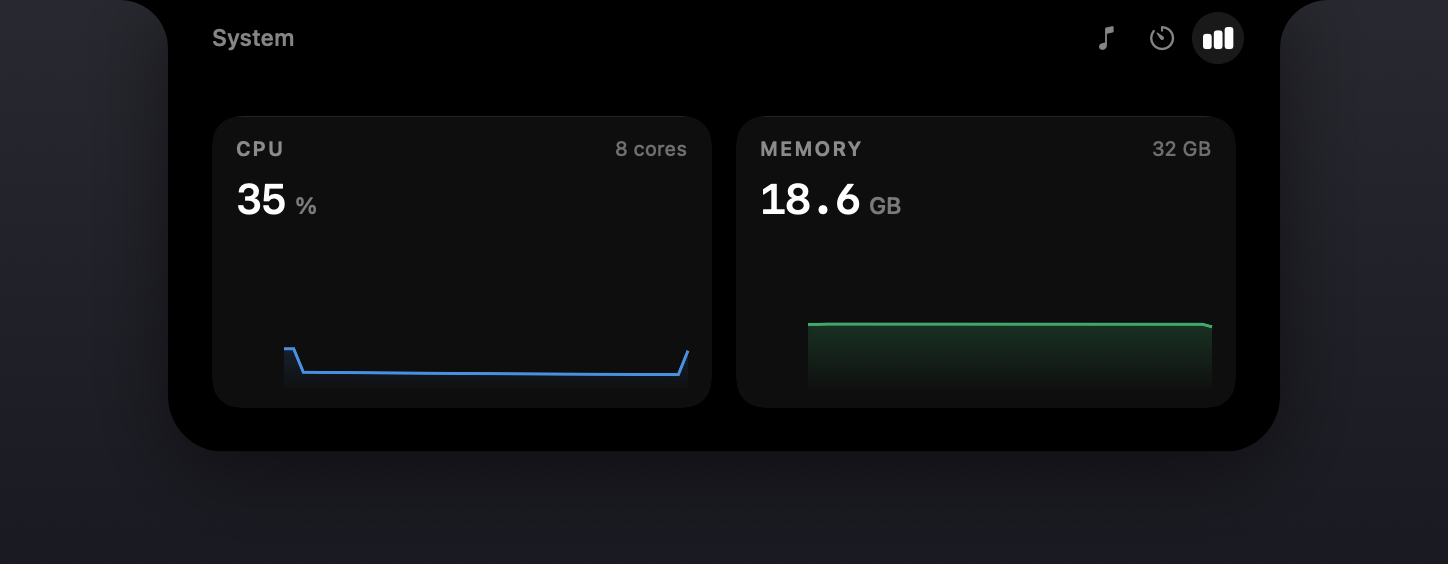
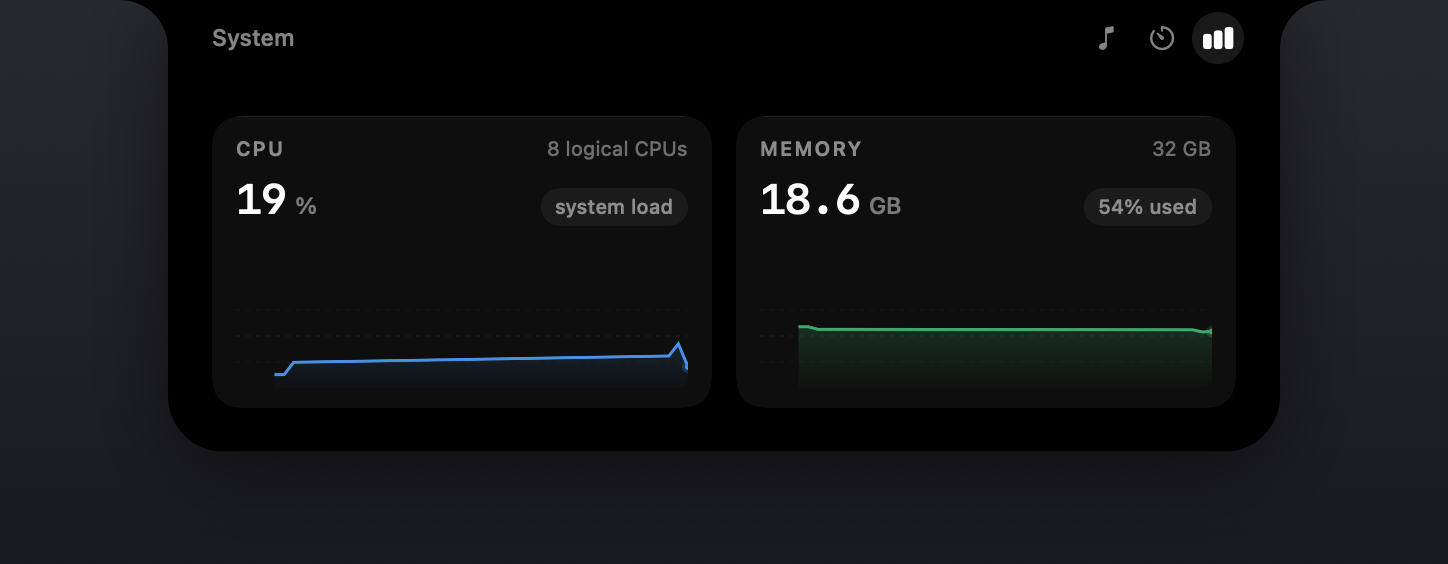
Polish system charts and warn at ten percent battery

diff --git a/Sources/CorniceApp/Views/StatsPane.swift b/Sources/CorniceApp/Views/StatsPane.swift
@@ -1,7 +1,7 @@
 import SwiftUI
 import CorniceKit
 
-/// The System module: two cards, one series each.
+/// The System module: two live cards, one exact series each.
 ///
 /// Deliberately charts rather than rows of numbers. A number alone answers "what
 /// is it now", which is the less useful question. The reason to glance at this
@@ -16,9 +16,10 @@ struct StatsPane: View {
         HStack(alignment: .top, spacing: Theme.Metrics.cardGap) {
             MetricCard(
                 name: "CPU",
-                sub: "\(ProcessInfo.processInfo.activeProcessorCount) cores",
+                sub: "\(ProcessInfo.processInfo.activeProcessorCount) logical CPUs",
                 value: String(Int((latest.cpuUsage * 100).rounded())),
                 unit: "%",
+                detail: "system load",
                 series: [Series(values: model.telemetry.series(\.cpuUsage), color: Theme.Palette.cpu)]
             )
 
@@ -27,6 +28,7 @@ struct StatsPane: View {
                 sub: Format.bytes(latest.memoryTotalBytes),
                 value: gigabytes(latest.memoryUsedBytes),
                 unit: "GB",
+                detail: "\(Int((latest.memoryUsage * 100).rounded()))% used",
                 series: [Series(values: model.telemetry.series(\.memoryUsage), color: Theme.Palette.memory)]
             )
 
@@ -58,6 +60,7 @@ struct MetricCard: View {
     let sub: String
     let value: String
     let unit: String
+    let detail: String
     let series: [Series]
     var legend: [Legend] = []
 
@@ -88,6 +91,13 @@ struct MetricCard: View {
                 Text(unit)
                     .font(Theme.Typeface.status)
                     .foregroundStyle(ink.at(0.45))
+                Spacer(minLength: 4)
+                Text(detail)
+                    .font(Theme.Typeface.cardSub.weight(.medium))
+                    .foregroundStyle(ink.at(0.50))
+                    .padding(.horizontal, 7)
+                    .padding(.vertical, 3)
+                    .background(ink.at(0.055), in: Capsule())
             }
             .monospacedDigit()
             .padding(.top, 6)
@@ -96,6 +106,7 @@ struct MetricCard: View {
 
             Sparkline(series: series)
                 .frame(height: 52)
+                .clipShape(RoundedRectangle(cornerRadius: 5, style: .continuous))
 
             if !legend.isEmpty {
                 HStack(spacing: 10) {
@@ -145,6 +156,7 @@ struct Sparkline: View {
 
     var body: some View {
         Canvas { context, size in
+            drawGuides(in: &context, size: size)
             for entry in series {
                 draw(entry, in: &context, size: size)
             }
@@ -153,9 +165,23 @@ struct Sparkline: View {
         .accessibilityHidden(true)
     }
 
+    private func drawGuides(in context: inout GraphicsContext, size: CGSize) {
+        for fraction in [0.25, 0.5, 0.75] {
+            let y = size.height * fraction
+            var guide = Path()
+            guide.move(to: CGPoint(x: 0, y: y))
+            guide.addLine(to: CGPoint(x: size.width, y: y))
+            context.stroke(
+                guide,
+                with: .color(Color.primary.opacity(fraction == 0.5 ? 0.08 : 0.045)),
+                style: StrokeStyle(lineWidth: 0.5, dash: [2, 3])
+            )
+        }
+    }
+
     private func draw(_ entry: Series, in context: inout GraphicsContext, size: CGSize) {
-        let values = entry.values
-        guard values.count >= 2 else { return }
+        let values = entry.values.map { $0.isFinite ? $0.clamped(to: 0...1) : 0 }
+        guard !values.isEmpty else { return }
 
         let step = size.width / CGFloat(max(capacity - 1, 1))
         // Right-aligned, so the newest sample is always against the right edge
@@ -163,7 +189,7 @@ struct Sparkline: View {
         let offset = size.width - step * CGFloat(values.count - 1)
 
         func point(_ index: Int) -> CGPoint {
-            let value = values[index].clamped(to: 0...1)
+            let value = values[index]
             return CGPoint(
                 x: offset + step * CGFloat(index),
                 // Inset by a point so a value pinned at 0 or 1 still shows a
@@ -190,5 +216,15 @@ struct Sparkline: View {
             )
         )
         context.stroke(line, with: .color(entry.color), lineWidth: 1.5)
+
+        let latest = point(values.count - 1)
+        context.fill(
+            Path(ellipseIn: CGRect(x: latest.x - 3, y: latest.y - 3, width: 6, height: 6)),
+            with: .color(entry.color.opacity(0.22))
+        )
+        context.fill(
+            Path(ellipseIn: CGRect(x: latest.x - 1.5, y: latest.y - 1.5, width: 3, height: 3)),
+            with: .color(entry.color)
+        )
     }
 }

diff --git a/Sources/CorniceApp/Views/HUDViews.swift b/Sources/CorniceApp/Views/HUDViews.swift
@@ -226,7 +226,7 @@ struct HUDView: View {
                             .monospacedDigit()
                             .foregroundStyle(Theme.Palette.red)
                     }
-                    Text("Turn on Low Power Mode or it\nis recommended to charge it.")
+                    Text("Connect your Mac to power or\nturn on Low Power Mode.")
                         .font(Theme.Typeface.hudBody)
                         .lineSpacing(4)
                         .foregroundStyle(ink.at(0.62))
@@ -235,7 +235,7 @@ struct HUDView: View {
 
                 Spacer(minLength: 0)
 
-                LargeBatteryGlyph(fraction: level, tint: Theme.Palette.red, glowing: true)
+                LowBatteryGlyph(fraction: level)
             }
         }
     }
@@ -418,6 +418,35 @@ struct LargeBatteryGlyph: View {
                 .frame(width: 3, height: 8)
         }
         .shadow(color: glowing ? tint.opacity(0.45) : .clear, radius: glowing ? 7 : 0)
+    }
+}
+
+/// Low charge uses a quieter shell and a red cell that reflects the real level.
+struct LowBatteryGlyph: View {
+    let fraction: Double
+
+    private var fillWidth: CGFloat {
+        max(2.5, 36 * CGFloat(fraction.clamped(to: 0...1)))
+    }
+
+    var body: some View {
+        HStack(spacing: 2) {
+            RoundedRectangle(cornerRadius: 7, style: .continuous)
+                .strokeBorder(Color.white.opacity(0.34), lineWidth: 1.5)
+                .frame(width: 44, height: 23)
+                .overlay(alignment: .leading) {
+                    RoundedRectangle(cornerRadius: min(3, fillWidth / 2), style: .continuous)
+                        .fill(Theme.Palette.red)
+                        .frame(width: fillWidth, height: 16)
+                        .padding(.leading, 4)
+                        .shadow(color: Theme.Palette.red.opacity(0.5), radius: 4)
+                }
+            Capsule()
+                .fill(Color.white.opacity(0.34))
+                .frame(width: 3, height: 8)
+        }
+        .accessibilityElement(children: .ignore)
+        .accessibilityLabel("Battery \(Int((fraction * 100).rounded())) percent")
     }
 }
 

diff --git a/Sources/CorniceApp/Model/AppModel+HUD.swift b/Sources/CorniceApp/Model/AppModel+HUD.swift
@@ -134,12 +134,17 @@ extension AppModel {
     /// Reacts to a new telemetry sample's battery reading.
     ///
     /// Edge-triggered throughout: a HUD fires on the sample where something
-    /// *changed*, never on the state persisting. Polling a level and showing a
-    /// notice whenever it is under 15% would put a battery warning on screen
-    /// every two seconds for the rest of the afternoon.
+    /// changed, never on the state persisting.
     func handleBatteryChange(from previous: BatteryState?, to current: BatteryState?) {
         guard let current else { return }
-        guard let previous else { return }   // the first reading is not an event
+
+        if BatteryAlertPolicy.shouldWarn(previous: previous, current: current) {
+            presentHUD(.batteryLow(level: current.level))
+            NotificationPresenter.shared.lowBattery(level: current.level)
+            return
+        }
+
+        guard let previous else { return }
 
         if current.isCharging && !previous.isCharging {
             presentHUD(.charging(level: current.level))
@@ -148,9 +153,6 @@ extension AppModel {
         if current.level >= 1.0 && previous.level < 1.0 && current.isPluggedIn {
             presentHUD(.fullBattery)
             return
-        }
-        if !current.isCharging, current.level < 0.15, previous.level >= 0.15 {
-            presentHUD(.batteryLow(level: current.level))
         }
     }
 

diff --git a/Sources/CorniceApp/Model/NotificationPresenter.swift b/Sources/CorniceApp/Model/NotificationPresenter.swift
@@ -29,18 +29,36 @@ final class NotificationPresenter {
             identifier: "timer-\(label)-\(Int(Date().timeIntervalSince1970))",
             title: "\(label) finished",
             body: "Your timer is done.",
-            url: nil
+            url: nil,
+            playsSound: false
         )
     }
 
-    private func post(identifier: String, title: String, body: String, url: URL?) {
+    func lowBattery(level: Double) {
+        let percent = Int((level * 100).rounded())
+        post(
+            identifier: "low-battery",
+            title: "Battery Low",
+            body: "Your Mac is at \(percent)%. Connect it to power or turn on Low Power Mode.",
+            url: nil,
+            playsSound: true
+        )
+    }
+
+    private func post(
+        identifier: String,
+        title: String,
+        body: String,
+        url: URL?,
+        playsSound: Bool
+    ) {
         Task {
             guard await ensureAuthorized() else { return }
 
             let content = UNMutableNotificationContent()
             content.title = title
             content.body = body
-            content.sound = nil          // a build failing does not need a chime
+            content.sound = playsSound ? .default : nil
             if let url {
                 content.userInfo = ["url": url.absoluteString]
             }

diff --git a/Scripts/check-battery.swift b/Scripts/check-battery.swift
@@ -1,0 +1,42 @@
+import Foundation
+import CorniceKit
+
+func battery(_ level: Double, charging: Bool = false) -> BatteryState {
+    BatteryState(
+        level: level,
+        isCharging: charging,
+        isPluggedIn: charging,
+        minutesRemaining: nil
+    )
+}
+
+func check(_ condition: @autoclosure () -> Bool, _ message: String) {
+    guard condition() else { fatalError(message) }
+    print("PASS: \(message)")
+}
+
+check(
+    BatteryAlertPolicy.shouldWarn(previous: battery(0.11), current: battery(0.10)),
+    "crossing 10 percent warns"
+)
+check(
+    BatteryAlertPolicy.shouldWarn(previous: battery(0.11), current: battery(0.09)),
+    "a skipped poll still warns below 10 percent"
+)
+check(
+    BatteryAlertPolicy.shouldWarn(previous: nil, current: battery(0.10)),
+    "launching at 10 percent warns"
+)
+check(
+    !BatteryAlertPolicy.shouldWarn(previous: battery(0.10), current: battery(0.09)),
+    "remaining below 10 percent does not repeat"
+)
+check(
+    !BatteryAlertPolicy.shouldWarn(previous: battery(0.11), current: battery(0.10, charging: true)),
+    "charging does not warn"
+)
+check(
+    !BatteryAlertPolicy.shouldWarn(previous: battery(0.12), current: battery(0.11)),
+    "11 percent does not warn"
+)
+print("Battery checks passed")

diff --git a/Sources/CorniceKit/Telemetry/TelemetryModels.swift b/Sources/CorniceKit/Telemetry/TelemetryModels.swift
@@ -59,6 +59,17 @@ public struct BatteryState: Equatable, Sendable {
     }
 }
 
+/// The one edge that should raise a low-battery warning.
+public enum BatteryAlertPolicy {
+    public static let lowLevel = 0.10
+
+    public static func shouldWarn(previous: BatteryState?, current: BatteryState) -> Bool {
+        guard !current.isCharging, current.level <= lowLevel else { return false }
+        guard let previous else { return true }
+        return previous.isCharging || previous.level > lowLevel
+    }
+}
+
 /// A bounded ring of recent samples, for the sparklines.
 ///
 /// Fixed capacity so a session left running for days cannot grow this without

diff --git a/Sources/CorniceApp/DocsCapture.swift b/Sources/CorniceApp/DocsCapture.swift
@@ -112,7 +112,7 @@ enum DocsCapture {
             isFinished: false
         ),
         .charging(level: 0.67),
-        .batteryLow(level: 0.14),
+        .batteryLow(level: 0.10),
         .fullBattery,
         .vpn(name: "VPN · utun4", since: Date().addingTimeInterval(-515)),
         .download(name: "ReallyVeryExtremelyImportBigNameForFile.mov", progress: 0.6, bytesPerSecond: 13_421_772),

diff --git a/README.md b/README.md
@@ -105,6 +105,11 @@ Loudness rises quickly and settles gradually when the music gets quieter.
 Run `./Scripts/check-audio.sh` to check buffer sizes, stereo phase, sample rates,
 and silence using generated test tones. This check works with Command Line Tools.
 
+The System tab shows exact CPU and memory history with a fixed 0–100% scale,
+guide lines, and a marked current sample. Cornice raises both a notch alert and
+a macOS notification once when battery charge crosses 10% while unplugged.
+Run `./Scripts/check-battery.sh` to check the warning boundary.
+
 ### Timers and controls
 
 A finished timer has a repeat button that restarts the same duration and stops
